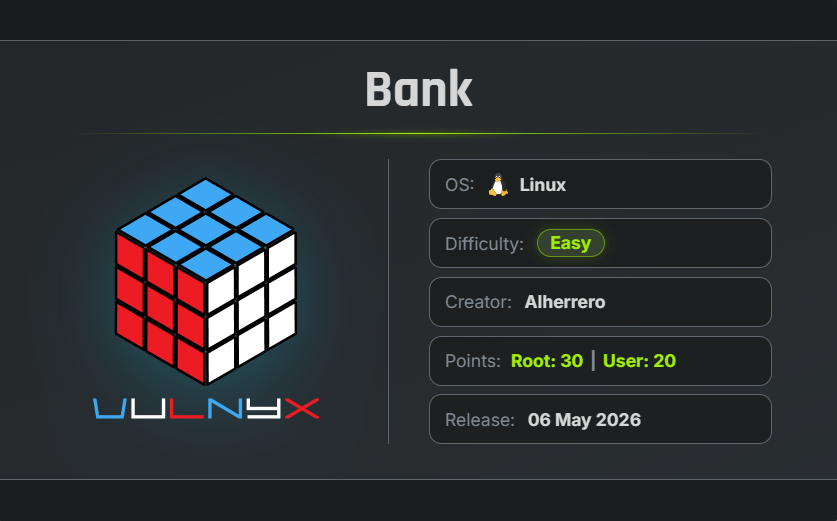
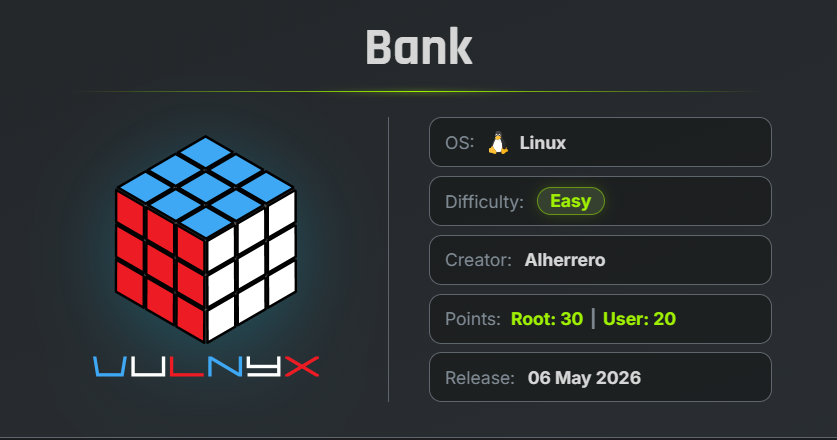
Adding writeups

diff --git a/content/writeups/vulnyx/Lower5.md b/content/writeups/vulnyx/Lower5.md
@@ -8,7 +8,7 @@ difficulty: "low"
 os: "Linux"
 status: "active"
 featured: false
-featured_image: "/images/writeups/lower-5/lower-5-cover.png"
+featured_image: "/images/writeups/vulnyx/lower5.png"
 tags: ["linux", "lfi", "apache", "log-poisoning", "gpg", "privilege-escalation"]
 skills: ["ffuf", "lfi", "apache-log-poisoning", "john-the-ripper", "sudo"]
 comments: false
@@ -19,7 +19,7 @@ draft: false
 
 A VulNyx machine involving Local File Inclusion (LFI), Apache Log Poisoning, Remote Code Execution, misconfigured sudo permissions, and credential recovery through a weak GPG passphrase. :contentReference[oaicite:0]{index=0}
 
-<img width="842" height="438" alt="image" src="https://github.com/user-attachments/assets/dfdcafe4-7000-41d2-a391-dbadfcdcab82" />
+<img width="842" height="438" alt="image" src="/images/writeups/vulnyx/lower5.png" />
 
 ---
 

diff --git a/content/writeups/vulnyx/Eternal.md b/content/writeups/vulnyx/Eternal.md
@@ -8,7 +8,7 @@ difficulty: "low"
 os: "Windows"
 status: "active"
 featured: false
-featured_image: "/images/writeups/eternal/eternal-cover.png"
+featured_image: "/images/writeups/vulnyx/eternal.png"
 tags: ["windows", "smb", "eternalblue", "ms17-010", "metasploit"]
 skills: ["nmap", "smb-enumeration", "metasploit", "eternalblue", "windows"]
 comments: false
@@ -19,7 +19,7 @@ draft: false
 
 A VulNyx machine focused on SMB enumeration, vulnerability identification, and exploitation of the MS17-010 (EternalBlue) vulnerability to gain SYSTEM-level access on a Windows 7 host.
 
-<img width="842" height="438" alt="image" src="https://github.com/user-attachments/assets/639f2368-8de7-488d-8454-3a4a7a55125a" />
+<img width="842" height="438" alt="image" src="/images/writeups/vulnyx/eternal.png" />
 
 ---
 

diff --git a/content/writeups/vulnyx/Lower4.md b/content/writeups/vulnyx/Lower4.md
@@ -8,7 +8,7 @@ difficulty: "low"
 os: "Linux"
 status: "active"
 featured: false
-featured_image: "/images/writeups/lower-4/lower-4-cover.png"
+featured_image: "/images/writeups/vulnyx/lower4.png"
 tags: ["linux", "ident", "ssh", "sudo", "privilege-escalation"]
 skills: ["nmap", "ident-user-enum", "hydra", "ssh", "privilege-escalation"]
 comments: false
@@ -20,7 +20,7 @@ draft: false
 A VulNyx machine involving username enumeration through the Ident protocol, SSH access using weak credentials, and privilege escalation through misconfigured sudo permissions.
 
 
-<img width="842" height="438" alt="image" src="https://github.com/user-attachments/assets/7c739479-d265-454e-adc4-f25fa500ada8" />
+<img width="842" height="438" alt="image" src="/images/writeups/vulnyx/lower4.png" />
 
 ---
 

diff --git a/content/writeups/vulnyx/Lower6.md b/content/writeups/vulnyx/Lower6.md
@@ -8,7 +8,7 @@ difficulty: "low"
 os: "Linux"
 status: "active"
 featured: false
-featured_image: "/images/writeups/lower-6/lower-6-cover.png"
+featured_image: "/images/writeups/vulnyx/lower6.png"
 tags: ["linux", "redis", "ssh", "capabilities", "privilege-escalation"]
 skills: ["nmap", "redis-cli", "hydra", "linux-capabilities", "gdb"]
 comments: false
@@ -19,7 +19,7 @@ draft: false
 
 A VulNyx machine involving Redis enumeration, credential disclosure, SSH access through password reuse, and privilege escalation via a misconfigured Linux capability on `gdb`.
 
-<img width="842" height="438" alt="image" src="https://github.com/user-attachments/assets/eed9b25c-1c97-4320-a98d-56c1fa66e19f" />
+<img width="842" height="438" alt="image" src="/images/writeups/vulnyx/lower6.png" />
 
 ---
 

diff --git a/content/writeups/vulnyx/Fing.md b/content/writeups/vulnyx/Fing.md
@@ -8,7 +8,7 @@ difficulty: "low"
 os: "Linux"
 status: "active"
 featured: false
-featured_image: "/images/writeups/fing/fing-cover.png"
+featured_image: "/images/writeups/vulnyx/fing.png"
 tags: ["linux", "finger", "ssh", "doas", "privilege-escalation"]
 skills: ["nmap", "finger-enumeration", "hydra", "ssh", "privilege-escalation"]
 comments: false
@@ -20,7 +20,7 @@ draft: false
 A VulNyx machine focused on user enumeration through the Finger service, SSH access using weak credentials, and privilege escalation via a misconfigured `doas` configuration.
 
 
-<img width="842" height="438" alt="image" src="https://github.com/user-attachments/assets/a04ca640-b59e-4818-bbb2-644d45d8a692" />
+<img width="842" height="438" alt="image" src="/images/writeups/vulnyx/eternal.png" />
 
 ---
 

diff --git a/content/writeups/vulnyx/Lower7.md b/content/writeups/vulnyx/Lower7.md
@@ -8,7 +8,7 @@ difficulty: "low"
 os: "Linux"
 status: "active"
 featured: false
-featured_image: "/images/writeups/lower-7/lower-7-cover.png"
+featured_image: "/images/writeups/vulnyx/lower7.png"
 tags: ["linux", "ftp", "nodejs", "shadow", "privilege-escalation"]
 skills: ["nmap", "hydra", "ftp", "nodejs", "john-the-ripper"]
 comments: false
@@ -19,7 +19,7 @@ draft: false
 
 A VulNyx machine involving FTP credential attacks, arbitrary file upload, remote code execution through a Node.js application, and privilege escalation through shadow group access.
 
-<img width="842" height="438" alt="image" src="https://github.com/user-attachments/assets/7b96c8b0-e934-4b03-bfff-e2479372e421" />
+<img width="842" height="438" alt="image" src="/images/writeups/vulnyx/lower7.png" />
 
 ---
 

diff --git a/content/writeups/vulnyx/Lower2.md b/content/writeups/vulnyx/Lower2.md
@@ -8,7 +8,7 @@ difficulty: "low"
 os: "Linux"
 status: "active"
 featured: false
-featured_image: "/images/writeups/lower-2/lower-2-cover.png"
+featured_image: "/images/writeups/vulnyx/lower2.png"
 tags: ["linux", "telnet", "hydra", "shadow", "privilege-escalation"]
 skills: ["nmap", "hydra", "telnet", "linux-enumeration", "privilege-escalation"]
 comments: false
@@ -19,7 +19,7 @@ draft: false
 
 A VulNyx machine involving Telnet enumeration, credential attacks, information disclosure, and privilege escalation through a writable `/etc/shadow` file.
 
-<img width="842" height="438" alt="image" src="https://github.com/user-attachments/assets/931b5f9b-8349-436a-a72b-1c3b78c0a877" />
+<img width="842" height="438" alt="image" src="/images/writeups/vulnyx/lower2.png" />
 
 ---
 

diff --git a/content/writeups/vulnyx/Lower.md b/content/writeups/vulnyx/Lower.md
@@ -8,7 +8,7 @@ difficulty: "low"
 os: "Linux"
 status: "active"
 featured: false
-featured_image: "/images/writeups/lower/lower-cover.png"
+featured_image: "/images/writeups/vulnyx/lower.png"
 tags: ["linux", "vhost", "ffuf", "hydra", "privilege-escalation"]
 skills: ["nmap", "ffuf", "cewl", "hydra", "linux-enumeration"]
 comments: false
@@ -19,7 +19,7 @@ draft: false
 
 A VulNyx machine focused on virtual host discovery, custom password list generation, SSH credential attacks, and privilege escalation through a writable `/etc/group` file.
 
-<img width="831" height="518" alt="image" src="https://github.com/user-attachments/assets/9c57578e-e5da-4392-a452-acb84e140793" />
+<img width="831" height="518" alt="image" src="/images/writeups/vulnyx/lower.png" />
 
 ---
 

diff --git a/content/writeups/vulnyx/Lower3.md b/content/writeups/vulnyx/Lower3.md
@@ -8,7 +8,7 @@ difficulty: "low"
 os: "Linux"
 status: "active"
 featured: false
-featured_image: "/images/writeups/lower-3/lower-3-cover.png"
+featured_image: "/images/writeups/vulnyx/lower3.png"
 tags: ["linux", "nfs", "php", "rce", "privilege-escalation"]
 skills: ["nmap", "nfs-enumeration", "php", "reverse-shell", "privilege-escalation"]
 comments: false
@@ -18,7 +18,7 @@ draft: false
 
 A VulNyx machine focused on NFS misconfiguration, remote code execution through a writable web root, and privilege escalation
 
-<img width="842" height="438" alt="image" src="https://github.com/user-attachments/assets/4b1ce1c1-de38-47b6-af96-8e1e51f0398e" />
+<img width="842" height="438" alt="image" src="/images/writeups/vulnyx/lower3.png" />
 
 ---
 

diff --git a/content/writeups/vulnyx/Doctor.md b/content/writeups/vulnyx/Doctor.md
@@ -8,14 +8,14 @@ difficulty: "low"
 os: "Linux"
 status: "active"
 featured: false
-featured_image: "/images/writeups/placeholder.svg"
+featured_image: "/images/writeups/vulnyx/doctor.png"
 tags: ["linux", "lfi", "ssh", "john", "privilege-escalation"]
 skills: ["nmap", "lfi", "john-the-ripper", "ssh", "privilege-escalation"]
 comments: false
 draft: false
 ---
 
-<img width="842" height="438" alt="image" src="https://github.com/user-attachments/assets/1acc64c7-b17c-4ed3-93bf-184aa2e22877" />
+<img width="842" height="438" alt="image" src="/images/writeups/vulnyx/doctor.png" />
 
 ## Overview
 

diff --git a/content/writeups/vulnyx/Bank.md b/content/writeups/vulnyx/Bank.md
@@ -15,7 +15,8 @@ comments: false
 draft: false
 ---
 
-<img width="842" height="438" alt="image" src="https://github.com/user-attachments/assets/8a3cdac8-2a51-4494-a2be-68549fa3c620" />
+<img width="842" height="438" alt="image" src="/images/writeups/vulnyx/bank.png" />
+
 
 ---
 
